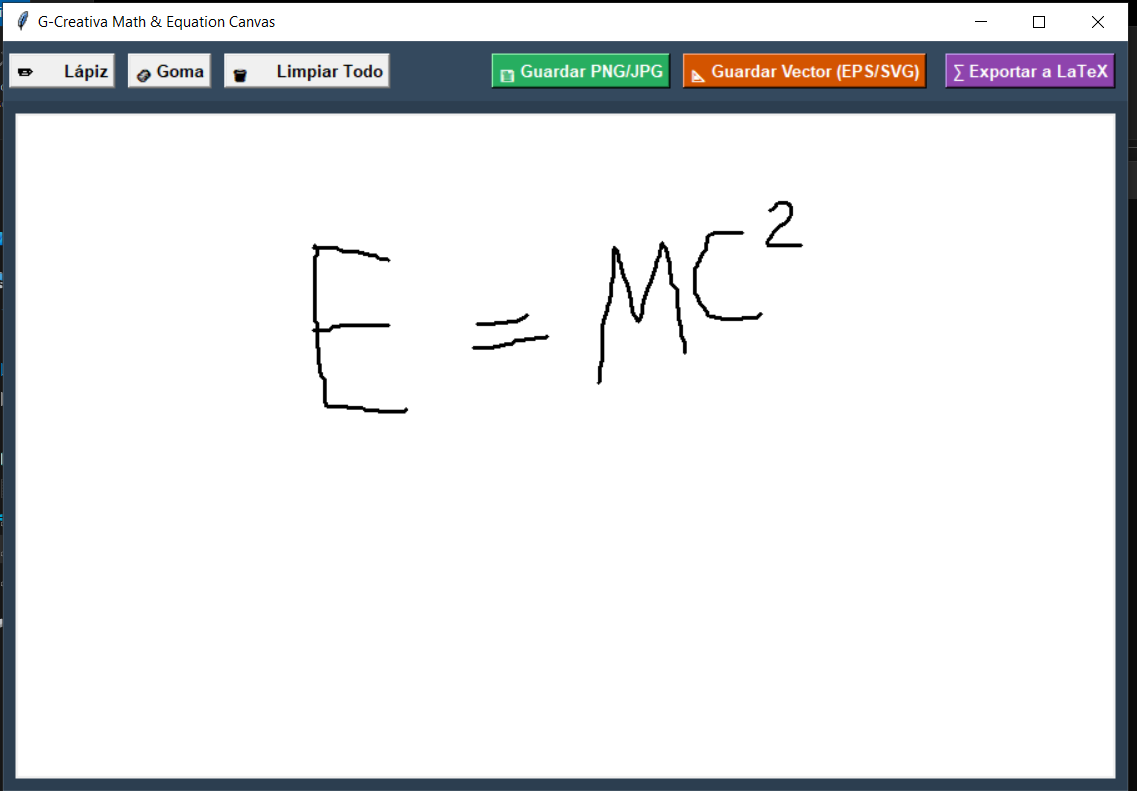
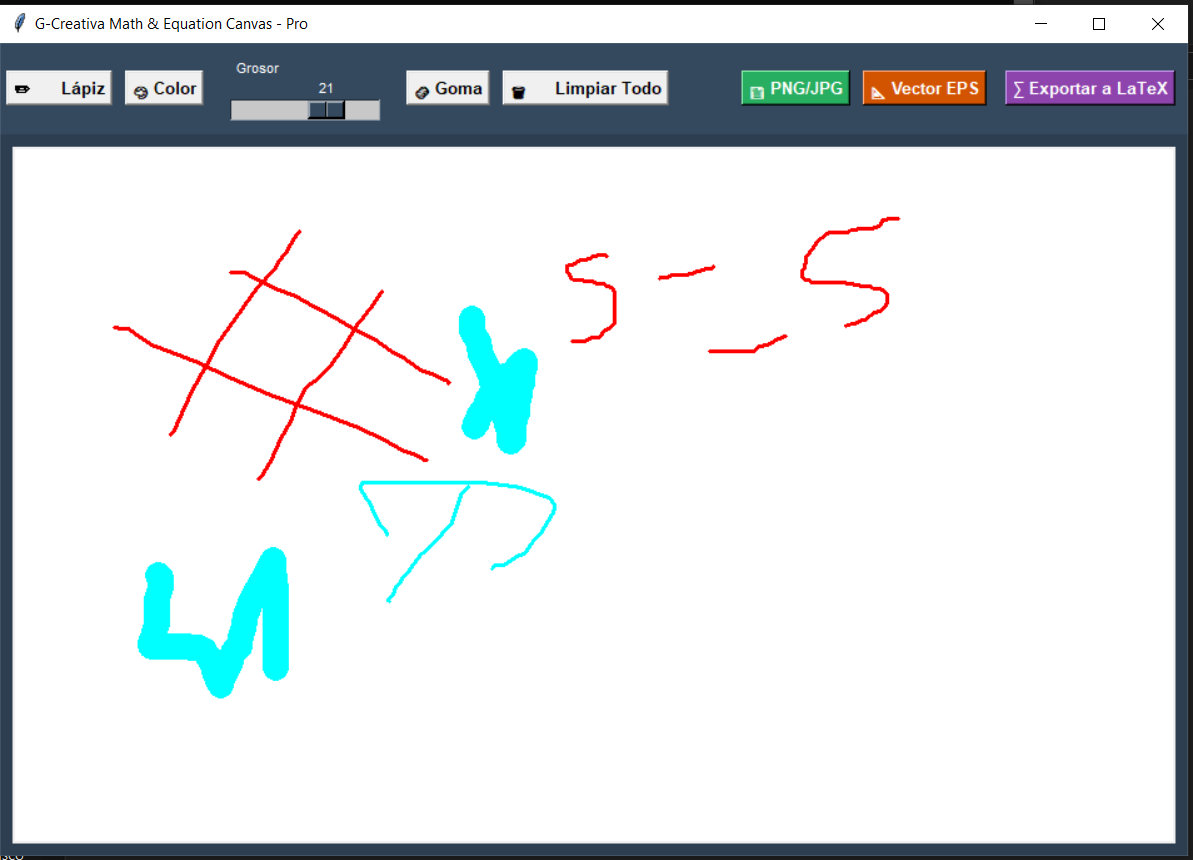
Add files via upload

diff --git a/math_canvas.py b/math_canvas.py
@@ -1,35 +1,45 @@
 import tkinter as tk
-from tkinter import filedialog, messagebox
+from tkinter import filedialog, messagebox, colorchooser
 from PIL import Image, ImageDraw
-import os
 
 class MathCanvasEditor:
     def __init__(self, root):
         self.root = root
-        self.root.title("G-Creativa Math & Equation Canvas")
-        self.root.geometry("900x600")
+        self.root.title("G-Creativa Math & Equation Canvas - Pro")
+        self.root.geometry("950x650")
         self.root.configure(bg="#2c3e50")
 
-        # Variables de dibujo
-        self.color_pincel = "black"
-        self.grosor_pincel = 3
+        # Variables lógicas de dibujo
+        self.color_actual = "black"    # Color seleccionado en la paleta
+        self.color_pincel = "black"    # Color activo (cambia a blanco si usamos la goma)
         self.x_previo = None
         self.y_previo = None
         
-        # Imagen en memoria (Pillow) para exportar con alta fidelidad
-        self.imagen_memoria = Image.new("RGB", (900, 500), "white")
+        # Imagen en memoria (Pillow) para exportación de alta fidelidad
+        self.imagen_memoria = Image.new("RGB", (950, 550), "white")
         self.draw_memoria = ImageDraw.Draw(self.imagen_memoria)
 
         self.configurar_interfaz()
 
     def configurar_interfaz(self):
-        # Panel Superior de Herramientas
+        # Panel Superior de Herramientas (Diseño UI)
         panel_herramientas = tk.Frame(self.root, bg="#34495e", pady=10)
         panel_herramientas.pack(fill=tk.X)
 
-        # Botones de dibujo
+        # --- CONTROLES DE DIBUJO ---
         btn_lapiz = tk.Button(panel_herramientas, text="✏ Lápiz", command=self.usar_lapiz, font=("Arial", 10, "bold"))
         btn_lapiz.pack(side=tk.LEFT, padx=5)
+
+        # Nuevo botón para la paleta de colores
+        btn_color = tk.Button(panel_herramientas, text="🎨 Color", command=self.elegir_color, font=("Arial", 10, "bold"))
+        btn_color.pack(side=tk.LEFT, padx=5)
+
+        # Nuevo control deslizante (Slider) para el grosor dinámico
+        self.slider_grosor = tk.Scale(panel_herramientas, from_=1, to=30, orient=tk.HORIZONTAL, 
+                                      label="Grosor", bg="#34495e", fg="white", 
+                                      highlightthickness=0, length=120, font=("Arial", 8))
+        self.slider_grosor.set(3) # Grosor inicial predeterminado
+        self.slider_grosor.pack(side=tk.LEFT, padx=15)
 
         btn_goma = tk.Button(panel_herramientas, text="🧽 Goma", command=self.usar_goma, font=("Arial", 10, "bold"))
         btn_goma.pack(side=tk.LEFT, padx=5)
@@ -37,33 +47,40 @@ class MathCanvasEditor:
         btn_limpiar = tk.Button(panel_herramientas, text="🗑 Limpiar Todo", command=self.limpiar_lienzo, font=("Arial", 10, "bold"))
         btn_limpiar.pack(side=tk.LEFT, padx=5)
 
-        # Botones de Exportación
+        # --- CONTROLES DE EXPORTACIÓN ---
         btn_latex = tk.Button(panel_herramientas, text="∑ Exportar a LaTeX", command=self.exportar_latex, bg="#8e44ad", fg="white", font=("Arial", 10, "bold"))
         btn_latex.pack(side=tk.RIGHT, padx=10)
 
-        btn_vector = tk.Button(panel_herramientas, text="📐 Guardar Vector (EPS/SVG)", command=self.exportar_vector, bg="#d35400", fg="white", font=("Arial", 10, "bold"))
+        btn_vector = tk.Button(panel_herramientas, text="📐 Vector EPS", command=self.exportar_vector, bg="#d35400", fg="white", font=("Arial", 10, "bold"))
         btn_vector.pack(side=tk.RIGHT, padx=5)
 
-        btn_png = tk.Button(panel_herramientas, text="💾 Guardar PNG/JPG", command=self.exportar_imagen, bg="#27ae60", fg="white", font=("Arial", 10, "bold"))
+        btn_png = tk.Button(panel_herramientas, text="💾 PNG/JPG", command=self.exportar_imagen, bg="#27ae60", fg="white", font=("Arial", 10, "bold"))
         btn_png.pack(side=tk.RIGHT, padx=5)
 
-        # Lienzo Digital (Canvas)
+        # --- LIENZO DIGITAL (CANVAS) ---
         self.canvas = tk.Canvas(self.root, bg="white", cursor="cross")
         self.canvas.pack(fill=tk.BOTH, expand=True, padx=10, pady=10)
 
-        # Eventos del ratón para dibujar
+        # Vinculación de eventos del ratón
         self.canvas.bind("<Button-1>", self.iniciar_trazo)
         self.canvas.bind("<B1-Motion>", self.dibujar_trazo)
         self.canvas.bind("<ButtonRelease-1>", self.terminar_trazo)
 
     # --- LÓGICA DE DIBUJO ---
+    def elegir_color(self):
+        """Abre la paleta del sistema y actualiza el color activo."""
+        color = colorchooser.askcolor(color=self.color_actual)[1]
+        if color:
+            self.color_actual = color
+            self.color_pincel = color # Si elige color, automáticamente vuelve a modo lápiz
+
     def usar_lapiz(self):
-        self.color_pincel = "black"
-        self.grosor_pincel = 3
+        """Restaura el pincel al color seleccionado."""
+        self.color_pincel = self.color_actual
 
     def usar_goma(self):
+        """Cambia el color a blanco para simular el borrado."""
         self.color_pincel = "white"
-        self.grosor_pincel = 20 # La goma es más gruesa
 
     def iniciar_trazo(self, event):
         self.x_previo = event.x
@@ -71,13 +88,20 @@ class MathCanvasEditor:
 
     def dibujar_trazo(self, event):
         if self.x_previo and self.y_previo:
+            # Obtenemos el grosor en tiempo real desde el slider
+            # Si estamos usando la goma, multiplicamos el grosor para borrar más rápido
+            grosor_activo = self.slider_grosor.get()
+            if self.color_pincel == "white":
+                grosor_activo = grosor_activo * 3 
+
             # Dibuja en la interfaz de usuario
             self.canvas.create_line(self.x_previo, self.y_previo, event.x, event.y, 
-                                    width=self.grosor_pincel, fill=self.color_pincel, 
+                                    width=grosor_activo, fill=self.color_pincel, 
                                     capstyle=tk.ROUND, smooth=True)
+            
             # Dibuja simultáneamente en la memoria RAM para exportar después
             self.draw_memoria.line([self.x_previo, self.y_previo, event.x, event.y], 
-                                   fill=self.color_pincel, width=self.grosor_pincel)
+                                   fill=self.color_pincel, width=grosor_activo)
             
             self.x_previo = event.x
             self.y_previo = event.y
@@ -88,7 +112,7 @@ class MathCanvasEditor:
 
     def limpiar_lienzo(self):
         self.canvas.delete("all")
-        self.draw_memoria.rectangle([0, 0, 900, 500], fill="white")
+        self.draw_memoria.rectangle([0, 0, 950, 550], fill="white")
 
     # --- LÓGICA DE EXPORTACIÓN ---
     def exportar_imagen(self):
@@ -101,11 +125,6 @@ class MathCanvasEditor:
             messagebox.showinfo("Éxito", f"Ecuación guardada como imagen en:\n{ruta}")
 
     def exportar_vector(self):
-        """
-        Exporta el lienzo como un archivo vectorial PostScript (EPS).
-        Este formato conserva las líneas como matemáticas puras (sin píxeles),
-        ideal para papers científicos y fácilmente convertible a SVG.
-        """
         ruta = filedialog.asksaveasfilename(
             defaultextension=".eps", 
             filetypes=[("Vector EPS", "*.eps")]
@@ -115,9 +134,6 @@ class MathCanvasEditor:
             messagebox.showinfo("Éxito", f"Vector matemático guardado en:\n{ruta}")
 
     def exportar_latex(self):
-        """
-        Módulo preparado para integración con IA.
-        """
         mensaje = (
             "Para convertir escritura a mano en código LaTeX puramente tipográfico, "
             "se requiere conectar este software a una API de Inteligencia Artificial (como Mathpix o OpenAI Vision).\n\n"
